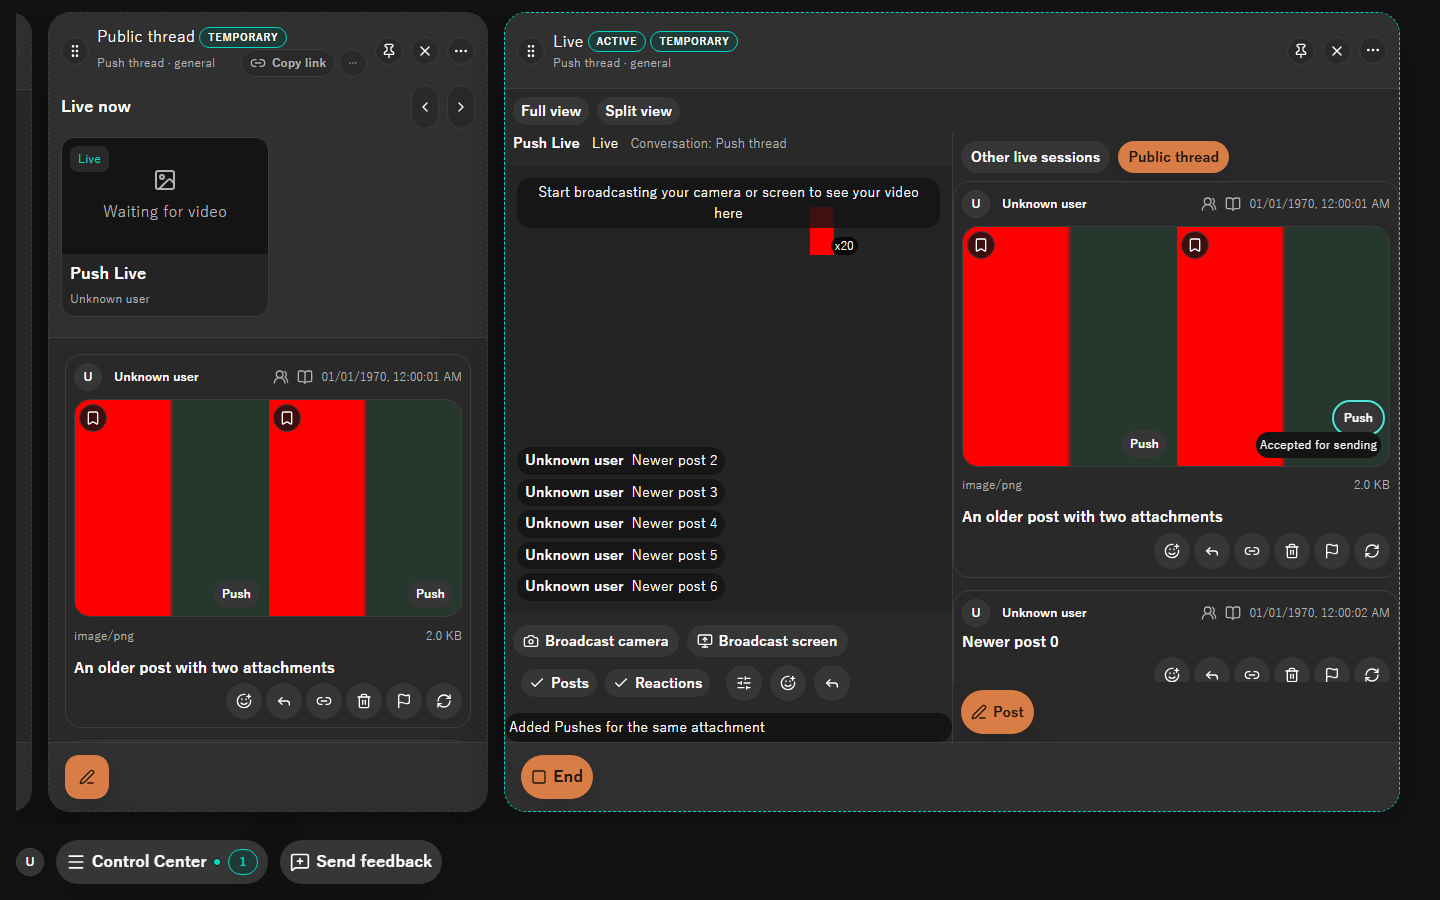
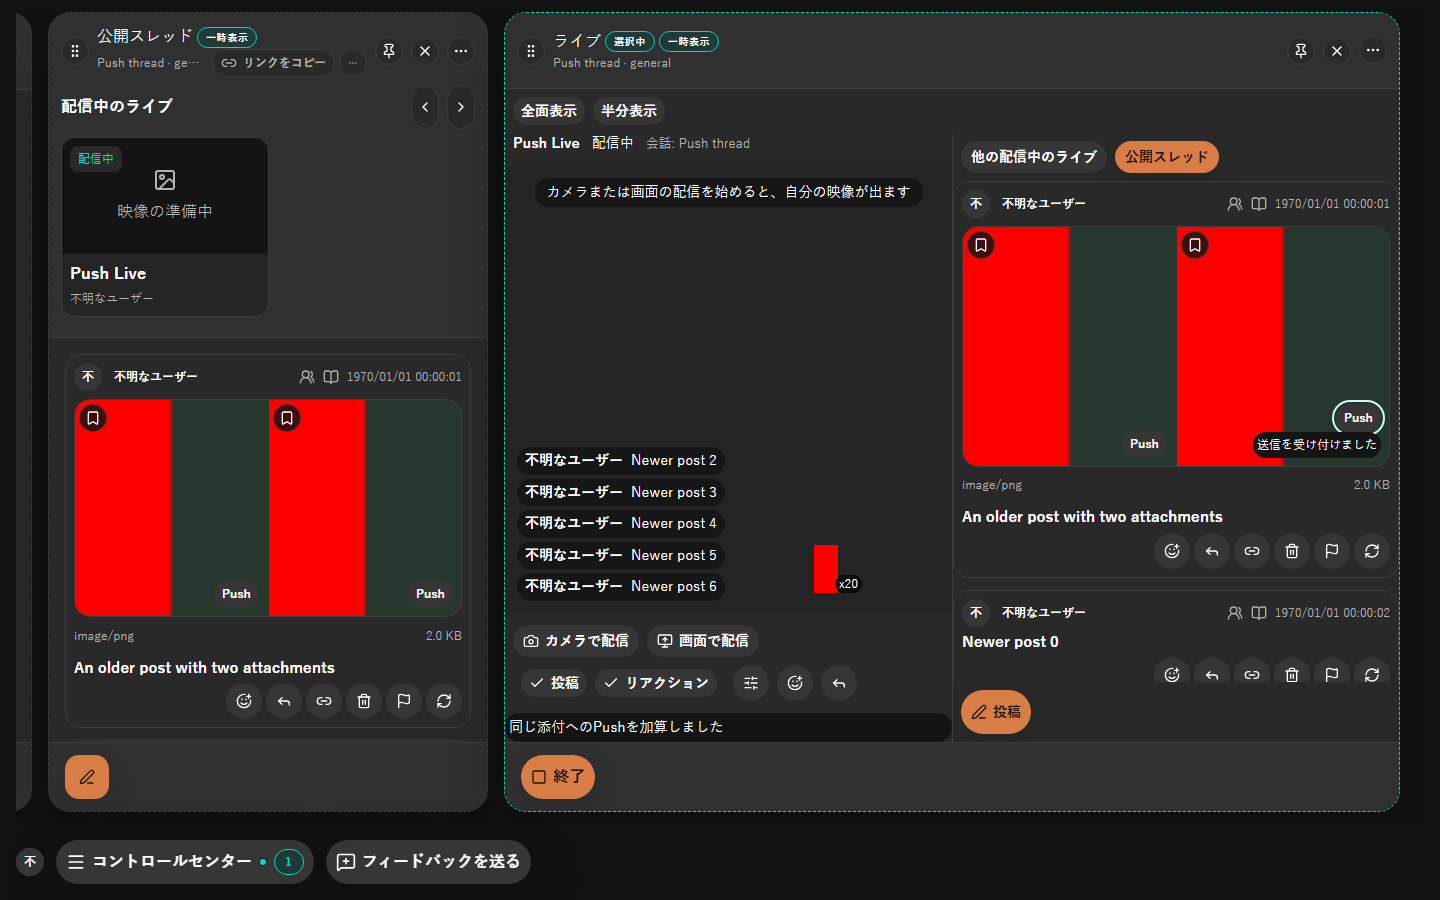
fix(live): place image overlays at the bottom of the video

diff --git a/apps/desktop/tests/playwright/live-overlay-push.spec.ts b/apps/desktop/tests/playwright/live-overlay-push.spec.ts
@@ -30,6 +30,8 @@ test('six tall Push images stay inside the video without overlap in reduced moti
     const thread = await api.createPublicChannel(topic, 'Still Push', '');
     const ref = { kind: 'public_channel' as const, channel_id: thread.channel_id };
     const live = await api.createLiveSession(topic, 'Still Live', '', ref);
+    const session = (await api.getLiveSession(topic, live))!;
+    await api.toggleReaction(topic, session.start_post_id!, { kind: 'emoji', emoji: '👍' }, ref);
     const targets = [];
     for (let index = 0; index < 6; index++) {
       const id = await api.createPost(topic, '', null, [{ file_name: `${index}.png`, mime: 'image/png', byte_size: 2048, data_base64: bytes, role: 'image_original' }], ref);
@@ -40,7 +42,7 @@ test('six tall Push images stay inside the video without overlap in reduced moti
     return targets;
   });
   const pushes = page.locator('.live-stage-pushes');
-  await expect(pushes).toBeVisible();
+  await expect(page.locator('.live-stage')).toBeVisible();
   await page.evaluate(async (targets) => { for (const target of targets) await window.__KUKURI_DESKTOP__!.pushLiveOverlay(target); }, targets);
   await expect(pushes.locator('canvas')).toHaveCount(6);
   await expect.poll(() => pushes.locator('canvas').evaluateAll((nodes) => nodes.every((node) => (node as HTMLCanvasElement).height === 160))).toBe(true);
@@ -48,6 +50,10 @@ test('six tall Push images stay inside the video without overlap in reduced moti
   const boxes = await pushes.locator('canvas').evaluateAll((nodes) => nodes.map((node) => { const r = node.getBoundingClientRect(); return { top: r.top, bottom: r.bottom, left: r.left, right: r.right }; }));
   for (const box of boxes) { expect(box.top).toBeGreaterThanOrEqual(video.y); expect(box.bottom).toBeLessThanOrEqual(video.y + video.height); }
   for (let index = 2; index < boxes.length; index++) expect(boxes[index].top).toBeGreaterThanOrEqual(boxes[index - 2].bottom);
+  await expect(page.locator('.live-stage-count')).toHaveCount(1);
+  const reactions = (await page.locator('.live-stage-reactions').boundingBox())!;
+  expect(boxes.at(-1)!.bottom).toBeLessThanOrEqual(reactions.y);
+  expect(boxes.at(-1)!.bottom).toBeGreaterThan(video.y + video.height * 0.75);
 });
 
 for (const width of [1440, 390]) for (const theme of ['dark', 'light']) for (const locale of ['ja', 'en', 'zh-CN']) {
@@ -105,6 +111,9 @@ for (const width of [1440, 390]) for (const theme of ['dark', 'light']) for (con
     await expect(button).toBeFocused();
     expect(await page.evaluate(() => ({ ...(window as unknown as { __overlayReads: Record<string, number> }).__overlayReads }))).toEqual(before);
     const imageBox = (await overlay.boundingBox())!;
+    const videoBox = (await column.locator('.live-stage-layers').boundingBox())!;
+    expect(imageBox.y).toBeGreaterThan(videoBox.y + videoBox.height / 2);
+    expect(videoBox.y + videoBox.height - imageBox.y - imageBox.height).toBeLessThanOrEqual(24);
     const countBox = (await overlay.locator('.live-overlay-push-count').boundingBox())!;
     expect(Math.abs(imageBox.x + imageBox.width - countBox.x - countBox.width)).toBeLessThanOrEqual(1);
     expect(Math.abs(imageBox.y + imageBox.height - countBox.y - countBox.height)).toBeLessThanOrEqual(1);

diff --git a/apps/desktop/src/shell/page/LiveStage.tsx b/apps/desktop/src/shell/page/LiveStage.tsx
@@ -247,28 +247,30 @@ function OverlayLayers({ posts, counts, floats, settings, mediaObjectUrls, media
           ))}
         </ol>
       ) : null}
-      {settings.posts && imagesEnabled ? <div className='live-stage-pushes'>
-        {pushes.map((slot) => slot.post ? <OverlayPushImage key={slot.key} slot={slot} mediaForPost={mediaForPost} /> : (
-          <span key={slot.key} className='live-stage-post-copy'>{t('loading')}</span>
-        ))}
-      </div> : null}
-      {settings.reactions ? (
-        <div className='live-stage-reactions'>
-          {floats.map((float) => (
-            <span key={float.id} className='live-stage-float' style={{ left: floatOffset(float.id) }}>
-              <Glyph reaction={float.reaction} mediaObjectUrls={mediaObjectUrls} />
-            </span>
+      {(settings.posts && imagesEnabled) || settings.reactions ? <div className='live-stage-aside'>
+        {settings.posts && imagesEnabled ? <div className='live-stage-pushes'>
+          {pushes.map((slot) => slot.post ? <OverlayPushImage key={slot.key} slot={slot} mediaForPost={mediaForPost} /> : (
+            <span key={slot.key} className='live-stage-post-copy'>{t('loading')}</span>
           ))}
-          <div className='live-stage-counts'>
-            {top(counts, COUNT_LIMIT).map((reaction) => (
-              <span key={reaction.normalized_reaction_key} className='live-stage-count'>
-                <Glyph reaction={reaction} mediaObjectUrls={mediaObjectUrls} />
-                {reaction.count}
+        </div> : null}
+        {settings.reactions ? (
+          <div className='live-stage-reactions'>
+            {floats.map((float) => (
+              <span key={float.id} className='live-stage-float' style={{ left: floatOffset(float.id) }}>
+                <Glyph reaction={float.reaction} mediaObjectUrls={mediaObjectUrls} />
               </span>
             ))}
+            <div className='live-stage-counts'>
+              {top(counts, COUNT_LIMIT).map((reaction) => (
+                <span key={reaction.normalized_reaction_key} className='live-stage-count'>
+                  <Glyph reaction={reaction} mediaObjectUrls={mediaObjectUrls} />
+                  {reaction.count}
+                </span>
+              ))}
+            </div>
           </div>
-        </div>
-      ) : null}
+        ) : null}
+      </div> : null}
     </div>
   );
 }

diff --git a/apps/desktop/src/styles/shell-phase1-part4.css b/apps/desktop/src/styles/shell-phase1-part4.css
@@ -713,33 +713,44 @@
   object-fit: contain;
 }
 
-.live-stage-pushes {
-  position: absolute;
-  inset-block-start: var(--space-sm);
-  inset-inline-end: var(--space-sm);
-  width: min(35%, 384px);
-  height: 75%;
-  display: grid;
-  grid-template-columns: repeat(2, minmax(0, 1fr));
-  grid-template-rows: repeat(3, minmax(0, 1fr));
+.live-stage-aside {
+  display: flex;
+  flex-direction: column;
+  align-items: flex-end;
+  max-width: 40%;
+  max-height: 100%;
   gap: var(--space-xs);
 }
 
-.live-stage-layers[data-position='right'] .live-stage-pushes {
-  inset-inline-start: var(--space-sm);
-  inset-inline-end: auto;
+.live-stage-pushes {
+  width: min(35cqw, 384px);
+  min-height: 0;
+  max-height: 75cqh;
+  display: grid;
+  grid-template-columns: repeat(2, minmax(0, 1fr));
+  grid-auto-rows: minmax(0, 1fr);
+  gap: var(--space-xs);
+}
+
+.live-stage-pushes:empty {
+  display: none;
+}
+
+.live-stage-layers[data-position='right'] .live-stage-aside {
+  align-items: flex-start;
 }
 
 .live-stage-pushes .live-overlay-image {
-  height: auto;
+  height: 100%;
+  max-height: min(160px, 23cqh);
   max-width: 100%;
-  align-self: center;
+  align-self: end;
   justify-self: end;
 }
 
 .live-stage-pushes .live-overlay-image > img,
 .live-stage-pushes .live-overlay-image > canvas {
-  max-height: min(160px, 23cqh);
+  max-height: min(100%, 160px, 23cqh);
 }
 
 .live-overlay-push-count {
@@ -822,7 +833,8 @@
   display: flex;
   flex-direction: column;
   align-items: flex-end;
-  max-width: 40%;
+  max-width: 100%;
+  flex-shrink: 0;
   font-size: var(--live-overlay-reaction);
 }
 

diff --git a/apps/desktop/tests/playwright/live-overlay-images.spec.ts b/apps/desktop/tests/playwright/live-overlay-images.spec.ts
@@ -51,6 +51,9 @@ for (const width of [1440, 390]) for (const theme of ['dark', 'light']) for (con
     const images = stage.locator('.live-overlay-image img');
     await expect(images).toHaveCount(2);
     await expect.poll(() => images.first().evaluate((image: HTMLImageElement) => image.naturalWidth)).toBe(48);
+    const videoBox = (await stage.locator('.live-stage-layers').boundingBox())!;
+    const lastImage = (await images.last().boundingBox())!;
+    expect(videoBox.y + videoBox.height - lastImage.y - lastImage.height).toBeLessThanOrEqual(24);
     const animated = stage.locator('[data-post-object-id="overlay-gif"] .live-overlay-image');
     const initial = await animated.screenshot();
     await expect.poll(async () => (await animated.screenshot()).equals(initial), { timeout: 3000 }).toBe(false);

diff --git a/DESIGN.md b/DESIGN.md
@@ -91,9 +91,9 @@ LiveはDesktop・Webとも開発者モードにかかわらず利用できる。
 
 映像には会話の投稿と開始postのリアクションを重ねる。投稿は最新5件を古い順に積み、本文も添付も無い投稿は除く。1件は3行、付いたリアクションは多い順に3種までとし、開始postへの返信には印を付ける。開始postのリアクションは8種まで表示し、新着は3秒で消す（同時に12個まで）。投稿・リアクションの表示切替、位置、文字とリアクションの大きさは従来の設定を使う。ライブへの返信とリアクションは開始postに付け、別の場所から紹介されたライブでは投稿の場所を会話の文脈として保つ。
 
-投稿添付の画像・GIFは先頭の画像1枚だけを本文の下に重ねる（#1950 AC-1）。最大192×160 CSS px、映像幅の1/3以下で縦横比を保ち、通常はGIFの動きを保つ。画像部分の背後は透明にし、本文・作者・返信の印・リアクションの文字背景と分ける。複数添付を自動で切り替えない。通常の投稿と同じ表示制限・画像取得・URL cacheを使い、準備中・取得失敗は画像部分だけで示す。投稿レイヤーoff、画面外、背景、配信終了では画像の表示需要を解放する。reduced motionではGIFも静止画として描く。
+投稿添付の画像・GIFは先頭の画像1枚だけを本文の下に重ね、投稿表示を映像の下端へ寄せる（#1950 AC-1）。最大192×160 CSS px、映像幅の1/3以下で縦横比を保ち、通常はGIFの動きを保つ。画像部分の背後は透明にし、本文・作者・返信の印・リアクションの文字背景と分ける。複数添付を自動で切り替えない。通常の投稿と同じ表示制限・画像取得・URL cacheを使い、準備中・取得失敗は画像部分だけで示す。投稿レイヤーoff、画面外、背景、配信終了では画像の表示需要を解放する。reduced motionではGIFも静止画として描く。
 
-配信中のLiveがある公開スレッドでは、表示可能な画像・GIFの添付ごとに「Push」を置き、画像viewerからも同じ添付を選べる（#1950 AC-2）。配信中を確認できない間は理由を示して操作不可とし、送信中は連打を受け付ける。送信受付と他端末への到達は区別する。同じ会話を見ている各端末の選択中Liveへ、対象画像を5秒表示する。同じ投稿・添付へのPushは全送信者分を合算して画像の右下に `x${回数}` と表示し、5秒の寿命を更新する。表示中のGIFは巻き戻さず、消えた後の再表示では先頭から始める。異なる添付は同時6種類まで、待ちqueueは持たず、7種類目は最後のPushが最も古い画像と交代する。合流・交代・混雑を短い状態表示で伝える。通常の最新5投稿の窓から外れた添付も明示Pushでき、元投稿の日時・順序・本文・リアクションは変えない。
+配信中のLiveがある公開スレッドでは、表示可能な画像・GIFの添付ごとに「Push」を置き、画像viewerからも同じ添付を選べる（#1950 AC-2）。配信中を確認できない間は理由を示して操作不可とし、送信中は連打を受け付ける。送信受付と他端末への到達は区別する。同じ会話を見ている各端末の選択中Liveへ、対象画像を画面下側に5秒表示する。画像数に合う高さの枠を下寄せし、既存のリアクション表示の上へ積んで重なりを避ける。同じ投稿・添付へのPushは全送信者分を合算して画像の右下に `x${回数}` と表示し、5秒の寿命を更新する。表示中のGIFは巻き戻さず、消えた後の再表示では先頭から始める。異なる添付は同時6種類まで、待ちqueueは持たず、7種類目は最後のPushが最も古い画像と交代する。合流・交代・混雑を短い状態表示で伝える。通常の最新5投稿の窓から外れた添付も明示Pushでき、元投稿の日時・順序・本文・リアクションは変えない。
 
 Pushは公開スレッドに属し、特定Liveの所有物にはしない。同じ会話の別Liveにも表示し、別の会話への紹介先へは伝播させない。元投稿・送信者の非表示条件を尊重し、投稿レイヤーoff・画面外・背景・Live終了・会話切替では演出と需要を解放する。復帰時に過去の要求を再生せず、reduced motionでは静止画像と回数だけを表示する。画像bytesは再送・再アップロードせず、同じhashの取得・URL・cacheを通常表示と共用する。
 

diff --git a/docs/ui-reviews/2026-10-27-1950-live-overlay-push.md b/docs/ui-reviews/2026-10-27-1950-live-overlay-push.md
@@ -3,10 +3,10 @@
 - Status: current
 - Supersedes: None（通常の画像表示は[AC-1の記録](2026-10-27-1950-live-overlay-images.md)を参照）
 - Superseded by: None
-- PR: #1950 AC-2 / PR-2、Scope revision 2026-10-27-r2
+- PR: #1950 AC-2 / PR-2、Scope revision 2026-10-27-r3
 - Preview: [20回のPushを合流した表示](assets/1950-overlay-push.png)
 - 対象・利用者・目的: 公開スレッドの参加者が、表示可能な画像・GIFを添付ごとに選んでLiveへ再表示する。
-- 採用内容: 投稿カードと画像viewerにPushを設けた。表示中の同じ添付は送信者を問わず加算し、右下に `x20` のように表示する。5秒で消え、消えた後はx1から始まる。GIFは表示中の連打で再スタートせず、新しい表示では先頭から再生する。
+- 採用内容: 投稿カードと画像viewerにPushを設けた。ユーザーの追加指定に従い、画像は画面下側へ寄せ、リアクション表示の上へ積む。表示中の同じ添付は送信者を問わず加算し、右下に `x20` のように表示する。5秒で消え、消えた後はx1から始まる。GIFは表示中の連打で再スタートせず、新しい表示では先頭から再生する。
 - 条件: WindowsのChromium、1440×900 / 390×900、dark/light、ja/en/zh-CN。最新5投稿の外にある他人の投稿、2添付の2枚目、pointer・Enter・Space、投稿レイヤーoff/on、reduced motion。
 - 描画と操作: 18回のクリックとEnter・Spaceでx20となり、回数が画像の右下に収まる。連打中もボタンが有効でfocusを維持する。Live状態が不明・開始待ち・終了済みの場合は操作不可の理由を表示する。PNG/GIFの透明部分に背景を塗らず、回数だけに可読性用の背景を置く。
 - GIFの確認: 元画像の緑フレーム再生中にPushすると、別のoverlayは赤い先頭フレームから始まり、元画像は緑のまま継続する。元のobject URLを共用し、overlayごとに安定したfragmentを付けて再生を分ける。reduced motionはAC-1と同じ静止canvasを使う。
